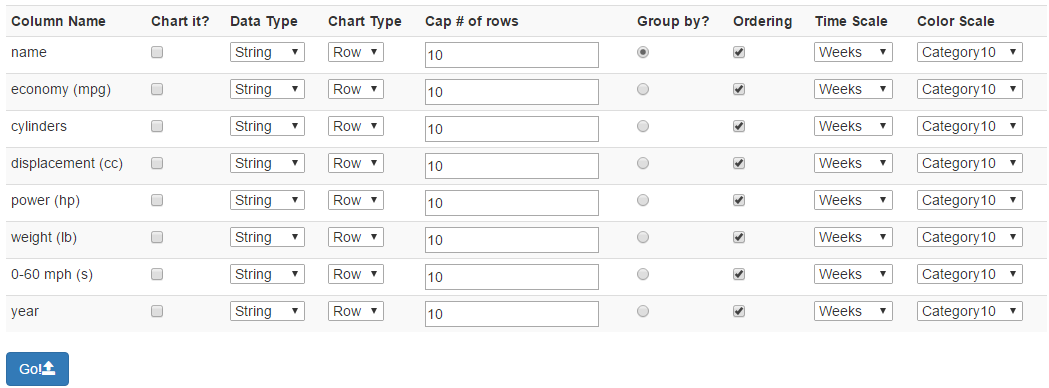
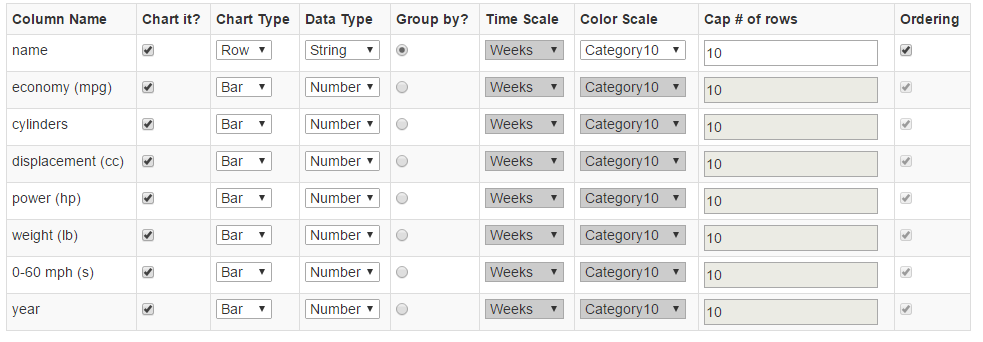
updating documentation

diff --git a/README.md b/README.md
@@ -9,33 +9,25 @@ Create one-time use [DC.js](https://dc-js.github.io/dc.js/) charts from csv file
 
 ![Initial page load](https://github.com/Weatherproof/AutoDC/raw/master/doc/images/Initial%20page%20load.png "Initial page load")
 
+**A simple test example is the Cars dataset from [Raw.js](http://raw.densitydesign.org/)**
+
 ![Example Datasets](https://github.com/Weatherproof/AutoDC/raw/master/doc/images/Example%20Datasets.png "Example Datasets")
 
-**Use the table to choose which type of dc.js chart to create for each column detected in the csv file. Row charts work for most data types, Bar charts require numerical data, and Time charts require Dates. Click the "Go" button to create the actual charts.**
+**The table below shows all the columns and their datatypes that were found from the loaded data. It also selects default chart types and enables all the dimensions for charting. 
 
- ![Config Table](https://github.com/Weatherproof/AutoDC/raw/master/doc/images/Config%20Table.png "Config Table")
+![Config Table](https://github.com/Weatherproof/AutoDC/raw/master/doc/images/Config%20Table.png "Config Table")
 
-**To follow along, just select them all for charting by checking all the "Chart it?" buttons.**
-
- ![Selecting all](https://github.com/Weatherproof/AutoDC/raw/master/doc/images/Selecting%20all.png "Selecting all")
-
-**Here, 10 charts were created that are all Row charts. However, some of this data would be better suited for a numerical bar chart, so go back to the table and select "Number" and "Bar" for 8 of the columns.**
-
-![Generated charts 1](https://github.com/Weatherproof/AutoDC/raw/master/doc/images/Generated%20charts%201.png "Generated charts 1")
-
-![Changing chart types](https://github.com/Weatherproof/AutoDC/raw/master/doc/images/Changing%20chart%20types.png "Changing chart types")
-
-**Click the "Go!" button again to see the new charts**
+Row charts work for most data types, Bar charts require numerical data, and Time charts require Dates. Click the "Go" button to create the actual charts.**
 
 ![Generated charts 2](https://github.com/Weatherproof/AutoDC/raw/master/doc/images/Generated%20charts%202.png "Generated charts 2")
 
-**Let's filter for fast cars (low 0-60s time) and from that selection, lets pick the least economical ones (low mpg)**
+**Let's filter for fast cars (low 0-60s time).**
 
 ![Filtering fast cars](https://github.com/Weatherproof/AutoDC/raw/master/doc/images/Filtering%20fast%20cars.png "Filtering fast cars")
 
-![Filtering economic cars](https://github.com/Weatherproof/AutoDC/raw/master/doc/images/Filtering%20economic%20cars.png "Filtering economic cars")
+**By selecting/filtering a chart, notice that all the other charts updated immediately. Let's now pick the least economical ones (low mpg)**
 
-**While filtering, the other charts update in instantly**
+![Filtering economic cars](https://github.com/Weatherproof/AutoDC/raw/master/doc/images/Filtering%20economic%20cars.png "Filtering economic cars")
 
 **Below the charts is a counter showing on how many data points match the cross-filter criteria out of the total number of data points. Here you can download a copy of the filtered data.**
 
